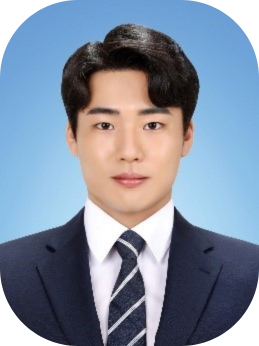
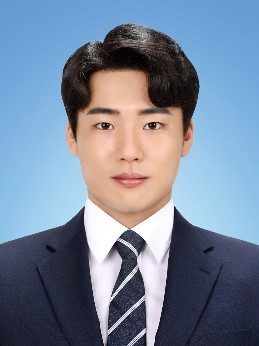
프로필 사진 교체 및 테두리 제거

diff --git a/css/style.css b/css/style.css
@@ -120,9 +120,9 @@ a {
     width: 200px;
     height: 260px;
     object-fit: cover;
-    border-radius: 8px;
-    border: 1px solid var(--border);
-    box-shadow: 0 4px 12px rgba(0, 0, 0, 0.08);
+    border-radius: 0;
+    border: none;
+    box-shadow: none;
 }
 
 .hero-label {
